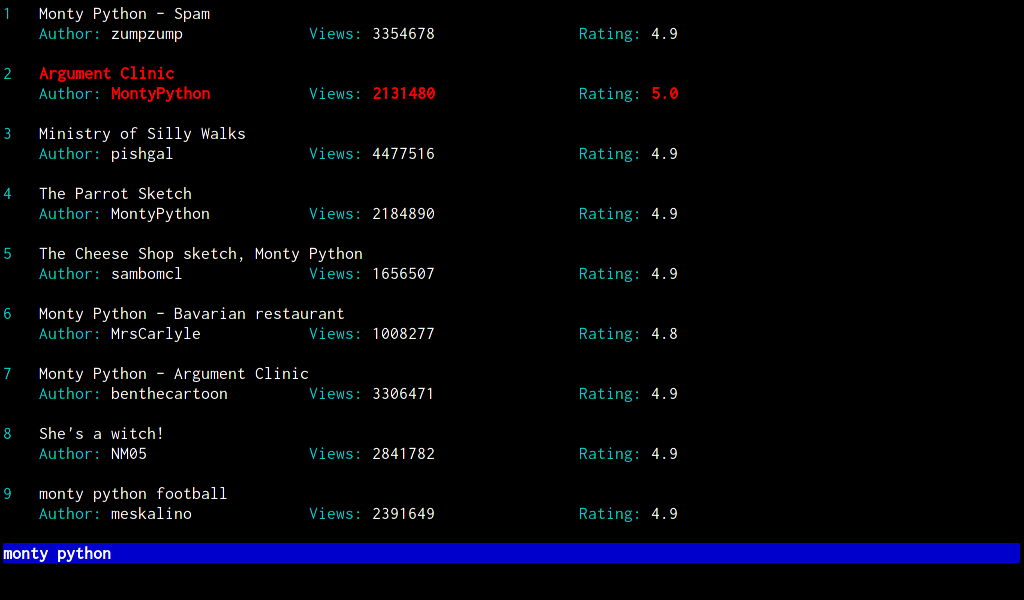
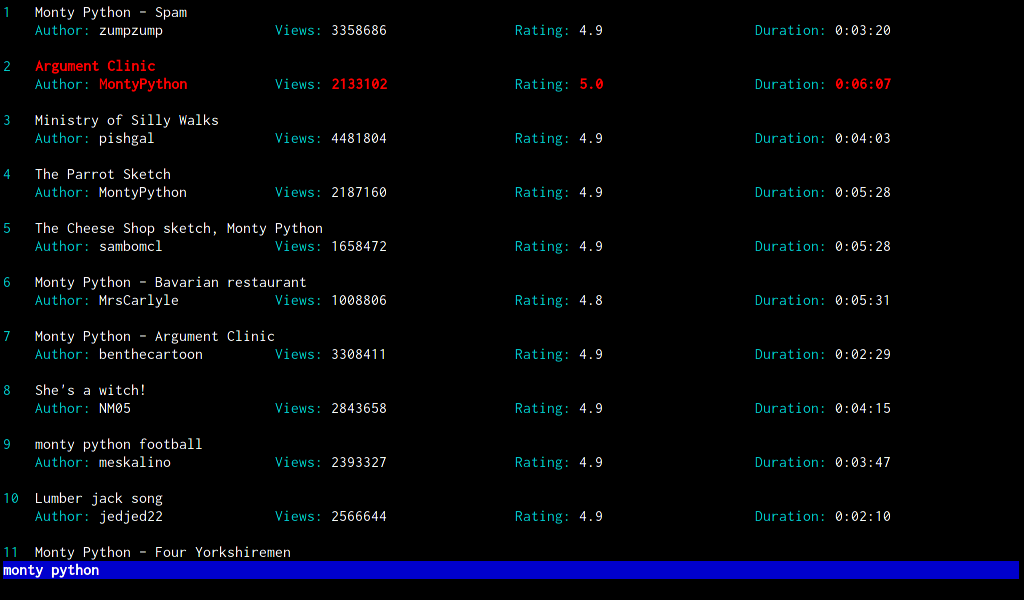
added vim-like behaviour

diff --git a/videotop.py b/videotop.py
@@ -5,19 +5,22 @@ import urwid
 import youtube_client
 
 class VideoButton(urwid.FlowWidget):
-    def __init__(self, video, index):
+    def __init__(self, video, index, color='index'):
         self.video = video
-        self.index = urwid.Text(('index', str(index)))
+        self.index = urwid.Text((color, str(index)))
         try:
             rounded_rating = str(round(float(self.video.rating), 1))
         except:
             rounded_rating = self.video.rating
 
         width = 30
-        views = urwid.Text([('index', 'Views: '), self.video.views])
-        rating = urwid.Text([('index', 'Rating: '), rounded_rating])
-        author = urwid.Text([('index', 'Author: '), self.video.author, '\n'])
-        button_info = urwid.Columns([('fixed', width, author), ('fixed', width, views), ('fixed', width, rating)])
+        duration = self.video.formatted_duration()
+        views = urwid.Text([(color, 'Views: '), self.video.views])
+        rating = urwid.Text([(color, 'Rating: '), rounded_rating])
+        author = urwid.Text([(color, 'Author: '), self.video.author])
+        duration = urwid.Text([(color, 'Duration: '), duration, '\n'])
+        button_info = urwid.Columns([('fixed', width, author), ('fixed', width, views),
+                                     ('fixed', width, rating), ('fixed', width, duration)])
         title = urwid.Text(self.video.title)
         button = urwid.Pile([title, button_info])
 
@@ -51,20 +54,50 @@ class VideoButton(urwid.FlowWidget):
             return key
 
 class CommandPrompt(urwid.Edit):
+    def clear(self):
+        self.set_caption('')
+        self.set_edit_text('')
     def keypress(self, size, key):
         if key == 'enter' and not self.get_edit_text() == '':
-            query = self.get_edit_text()
-            self.set_edit_text('')
-            status_bar.set_text('Searching for: ' + query)
-            loop.draw_screen()
-            search = client.search(query) # takes the most time
-            listbox.append(search)
-            status_bar.set_text(query)
-            main_frame.set_focus('body')
+            command = self.get_edit_text()
+            command = command.split(' ', 1)
+            if command[0] in ('search', 's'):
+                query = command[1]
+                self.clear()
+                status_bar.set_text('Searching for: ' + query)
+                loop.draw_screen()
+                search = client.search(query) # takes the most time
+                listbox.append(search)
+                status_bar.set_text(query)
+                main_frame.set_focus('body')
+            elif command[0] in ('videos', 'v'):
+                self.clear()
+                status_bar.set_text('Listing local videos')
+                loop.draw_screen()
+                video_list = os.listdir(os.getcwd())
+                video_list = [os.path.splitext(video)[0] for video in video_list]
+                video_list.sort()
+                videos = [client.get_local_video(video) for video in video_list]
+                listbox.append(videos, color='local_video')
+                main_frame.set_focus('body')
+            elif command[0] == 'clear':
+                listbox.clear()
+                self.set_edit_text('')
+            elif command[0].isdigit():
+                self.clear()
+                video_focus = int(command[0]) - 1
+                listbox.set_focus(video_focus)
+                main_frame.set_focus('body')
+            elif command[0] in ('quit', 'q'):
+                raise urwid.ExitMainLoop()
+            elif command[0] == '?':
+                listbox.search(command[1])
+            else:
+                status_bar.set_text('Error, there is no command named "' + command[0] + '"')
+                pass
         if key == 'ctrl x':
             main_frame.set_focus('body')
-            self.set_caption('')
-            self.set_edit_text('')
+            self.clear()
         else:
             return urwid.Edit.keypress(self, size, key)
 
@@ -73,11 +106,22 @@ class VideoListBox(urwid.WidgetWrap):
         self.body = urwid.SimpleListWalker([])
         self.listbox = urwid.ListBox(self.body)
         urwid.WidgetWrap.__init__(self, self.listbox)
-    def append(self, search):
+    def append(self, search, color='index'):
         for video in search:
-            new_button = VideoButton(video, int(len(self.body)) + 1)
+            new_button = VideoButton(video, int(len(self.body)) + 1, color)
             self.body.append(new_button)
             loop.draw_screen()
+    def clear(self):
+        status_bar.set_text('Cleared the screen.')
+        self.body[:] = []
+    def set_focus(self, position):
+        self.listbox.set_focus(position)
+    def search(self, pattern):
+        video_list = [video_button.video.title for video_button in self.body]
+        for video in video_list:
+            if pattern in video:
+                status_bar.set_text('found: ' + pattern)
+        # TODO: return the list of all indexes whose videos have the pattern in them.
     def keypress(self, size, key):
         if key == ':':
             main_frame.set_focus('footer')
@@ -99,9 +143,7 @@ class VideoListBox(urwid.WidgetWrap):
                 position = 0
             self.listbox.set_focus(position, 'below')
         elif key == 'ctrl r':
-            status_bar.set_text('Cleared the screen.')
-            self.body[:] = []
-            main_frame.set_focus('footer')
+            self.clear()
         elif key == 'ctrl n':
             search = client.next_page()
             self.append(search)
@@ -117,6 +159,7 @@ palette = [('focus', 'light red', 'black', 'standout'),
           ('status', 'white', 'dark blue'),
           ('opened', 'light blue', 'black'),
           ('downloaded', 'white', 'black'),
+          ('local_video', 'yellow', 'black'),
           ('index', 'dark cyan', 'black')]
 listbox = VideoListBox()
 command_prompt = CommandPrompt(':')
@@ -128,19 +171,7 @@ main_frame.set_focus('footer')
 client = youtube_client.YouTubeClient()
 
 def handle_input(input):
-    if input in ('q', 'Q'):
-        raise urwid.ExitMainLoop()
-    if input == 'tab':
-        if main_frame.focus_part == 'body':
-            command_prompt.set_caption(':')
-            main_frame.set_focus('footer')
-        else:
-            main_frame.set_focus('body')
-    if input == 'm':
-        video_list = os.listdir(os.getcwd())
-        video_list = [os.path.splitext(video)[0] for video in video_list]
-        videos = [client.get_local_video(video) for video in video_list]
-        listbox.append(videos)
+    pass
 
 loop = urwid.MainLoop(main_frame, palette, unhandled_input=handle_input)
 loop.run()

diff --git a/youtube_client.py b/youtube_client.py
@@ -49,6 +49,7 @@ class YouTubeVideo:
             self.author = entry.author[0].name.text
         except:
             self.author = 'N/A' # dunno, local video
+            self.duration = 'N/A'
         try:
             self.views = entry.statistics.view_count
         except AttributeError:
@@ -82,3 +83,12 @@ class YouTubeVideo:
         subprocess.Popen(['mplayer', '-fs', self.file], stdout=temp, stderr=temp, stdin=temp)
         self.file = self.title + '.mp4'
         subprocess.Popen(['mplayer', '-fs', self.file], stdout=temp, stderr=temp, stdin=temp)
+
+    def formatted_duration(self):
+        try:
+            m, s = divmod(int(self.duration), 60)
+            h, m = divmod(m, 60)
+            test = "%d:%02d:%02d" % (h, m, s)
+            return test
+        except:
+            return self.duration # N/A

diff --git a/README.md b/README.md
@@ -2,10 +2,39 @@
 This program is still under heavy development!
 
 # DESCRIPTION
-**Videotop** is an open source command line browser for online videos, written in python with vim-like keybindings.
+**Videotop** is a free console browser for online videos, written in python with vim-like keybindings.
 
-It uses the following external python modules:
- 
+# USAGE
+If you are already familiar with vim the controls should be pretty intuitive.  
+There are two modes: command mode and browse mode.
+
+In command mode you can search for videos by typing **:s** *VIDEOSEARCH* and hitting **ENTER**.  
+This will generate a list of videos and switch to browse mode.
+
+In browse mode you can download the videos by hitting **ENTER** and play them with **p**.  
+You can also open the youtube page by hitting **o**.  
+**CTRL n** lists the next videos of your previous search and **CTRL r** clears the screen.
+
+# COMMAND TABLE
+<table border='1'>
+<tr><th>Command Mode</th><th>Browse Mode</th><th>Description</th></tr>
+<tr><td>:search, :s</td><td>s</td><td>Search for videos and switch to browse mode</td></tr>
+<tr><td>:clear</td><td>CTRL r</td><td>Clear the video list and switch to command mode</td></tr>
+<tr><td>:videos, :v</td><td></td><td>Show the downloaded videos and switch to browse mode</td></tr>
+<tr><td>:13</td><td></td><td>Select video 13 and switch to browse mode</td></tr>
+<tr><td></td><td>CTRL n</td><td>List the next videos of the previous search</td></tr>
+<tr><td></td><td>ENTER</td><td>Download the selected video</td></tr>
+<tr><td></td><td>o</td><td>Open the youtube site of the selected video in firefox</td></tr>
+<tr><td></td><td>p</td><td>Play the selected video with mplayer</td></tr>
+<tr><td></td><td>j</td><td>Move down</td></tr>
+<tr><td></td><td>k</td><td>Move up</td></tr>
+<tr><td></td><td>CTRL d</td><td>Move down</td></tr>
+<tr><td></td><td>CTRL u</td><td>Move up</td></tr>
+<tr><td></td><td>g</td><td>Move to the first video</td></tr>
+<tr><td></td><td>G</td><td>Move to the last video</td></tr>
+</table>
+
+# DEPENDENCIES
 * [urwid][1] to provide an ncurses frontend.
 * [gdata][2] and [youtube-dl][3] to search for and download youtube videos.
 * (optional) [mplayer][4] to play the downloaded videos.
@@ -14,14 +43,3 @@ It uses the following external python modules:
 [2]: http://code.google.com/apis/youtube/1.0/developers_guide_python.html
 [3]: http://rg3.github.com/youtube-dl/
 [4]: http://www.mplayerhq.hu/
-
-# USAGE
-If you are already familiar with vim the controls should be pretty intuitive.
-There are two different modes: command mode and browse mode.
-Press TAB to toggle between the two.
-
-In command mode you can search for videos by hitting enter.
-This will generate a list of videos and switch to browse mode.
-
-In browse mode you can download the videos by hitting **ENTER** and play them by hitting **p**.
-You can also open the youtube page by hitting **o**. To list more videos of your previous search hit **CTRL n** and to clear the video list hit **CTRL r**.
